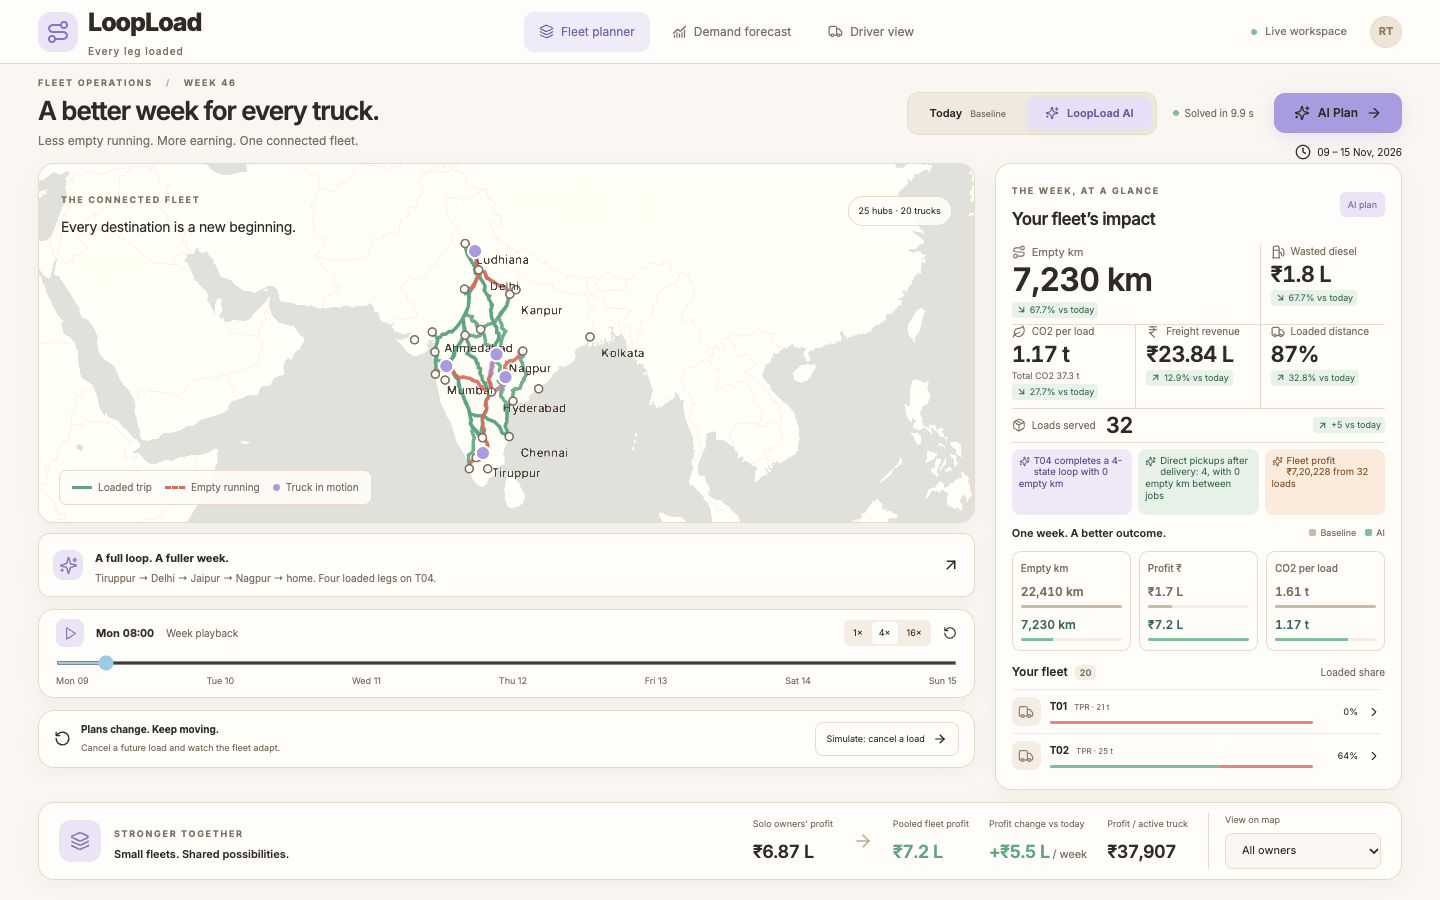
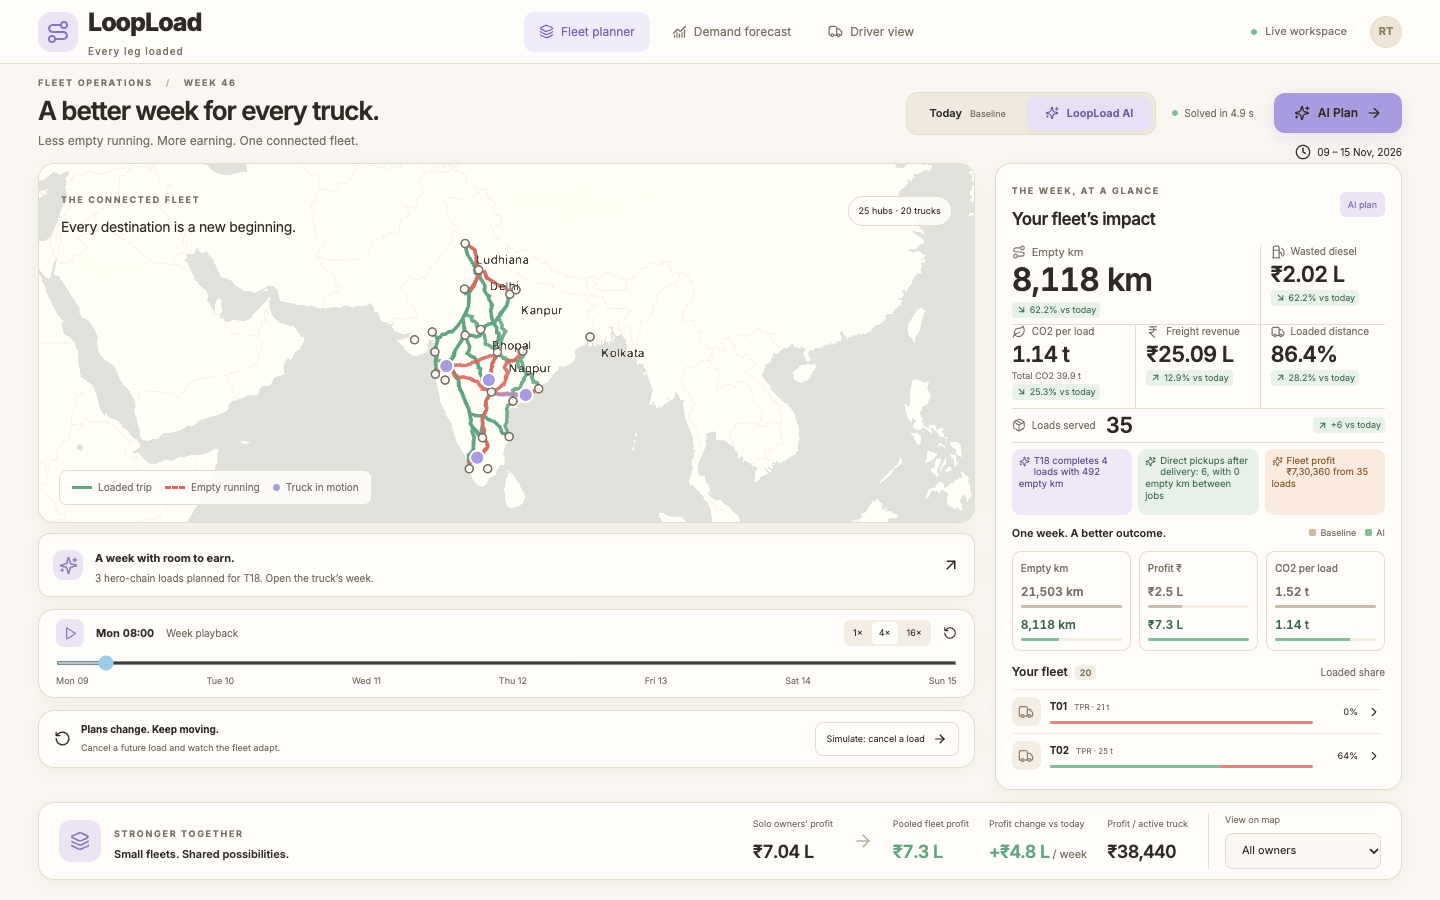
Fix: /api/replan was overwriting the canonical AI plan cache
Simulating a cancellation set STATE['latest_by_mode']['ai'] to the
replanned plan, so every subsequent fresh /api/plan and /api/compare
call (new tab, reload, another viewer) silently served the degraded
post-cancellation plan instead of the original AI solve. This is what
made the hero-loop highlight drift from T01 to other trucks after any
cancel-load demo run. The replanned plan stays retrievable by its own
plan_id; it just no longer replaces the default.

diff --git a/backend/app/main.py b/backend/app/main.py
@@ -237,8 +237,11 @@ def post_replan(req: ReplanRequest):
     new_plan = replan(plan, req.event, STATE["scenario"], STATE["matrix"], CONFIG)
     _fill_paths_and_compliance(new_plan)
     _enrich_plan_metrics(new_plan)
+    # Keep the replanned plan retrievable by its own id, but don't let it
+    # replace the canonical "latest ai plan" that fresh /api/plan and
+    # /api/compare calls return — simulating a cancellation in one session
+    # must not degrade what every other viewer sees as "the AI plan".
     STATE["plans"][new_plan["plan_id"]] = new_plan
-    STATE["latest_by_mode"][new_plan["mode"]] = new_plan["plan_id"]
     return new_plan
 
 
